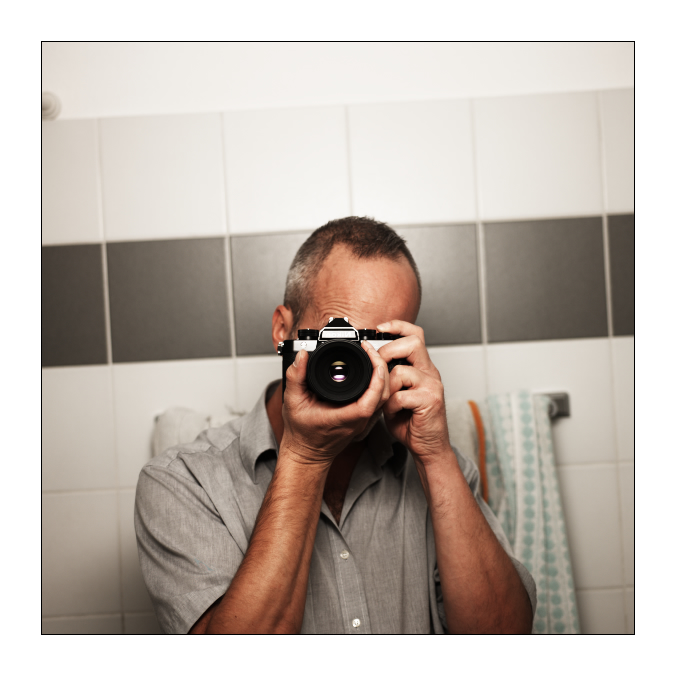
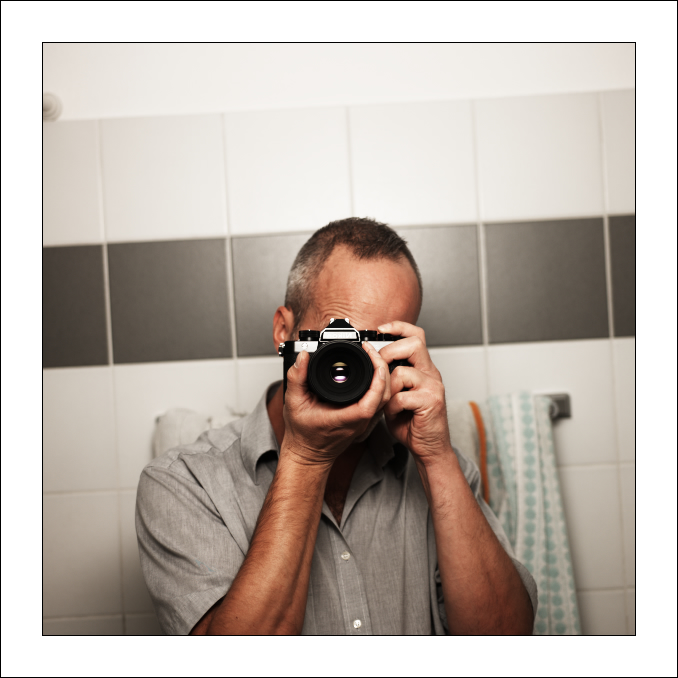
README: a one-pixel line around the portrait plate so the white border reads against the page

diff --git a/README.md b/README.md
@@ -12,7 +12,7 @@ The switch between the two is in the toolbar, and the whole darkroom follows it:
 
 It is for analog photographers and fine-art printers who decide the print on the paper.
 
-![Dragan Bojovic, a plate printed with Mimizan Lab: Nikon Z f, Micro-Nikkor 60 mm, Wratten filters, Multigrade soft −1.26 hard +0.33, a 5.7 cm sheet with a 3.5 mm white border and a 0.1 mm film edge, 676 × 676 pixels at 300 dpi, shown 1:1](docs/dragan.jpg)
+![Dragan Bojovic, a plate printed with Mimizan Lab: Nikon Z f, Micro-Nikkor 60 mm, Wratten filters, Multigrade soft −1.26 hard +0.33, a 5.7 cm sheet with a 3.5 mm white border and a 0.1 mm film edge, 676 × 676 pixels at 300 dpi, shown 1:1 inside a one-pixel line that is not part of the print](docs/dragan.jpg)
 
 > Lift the colour off. Print what remains.
 >
